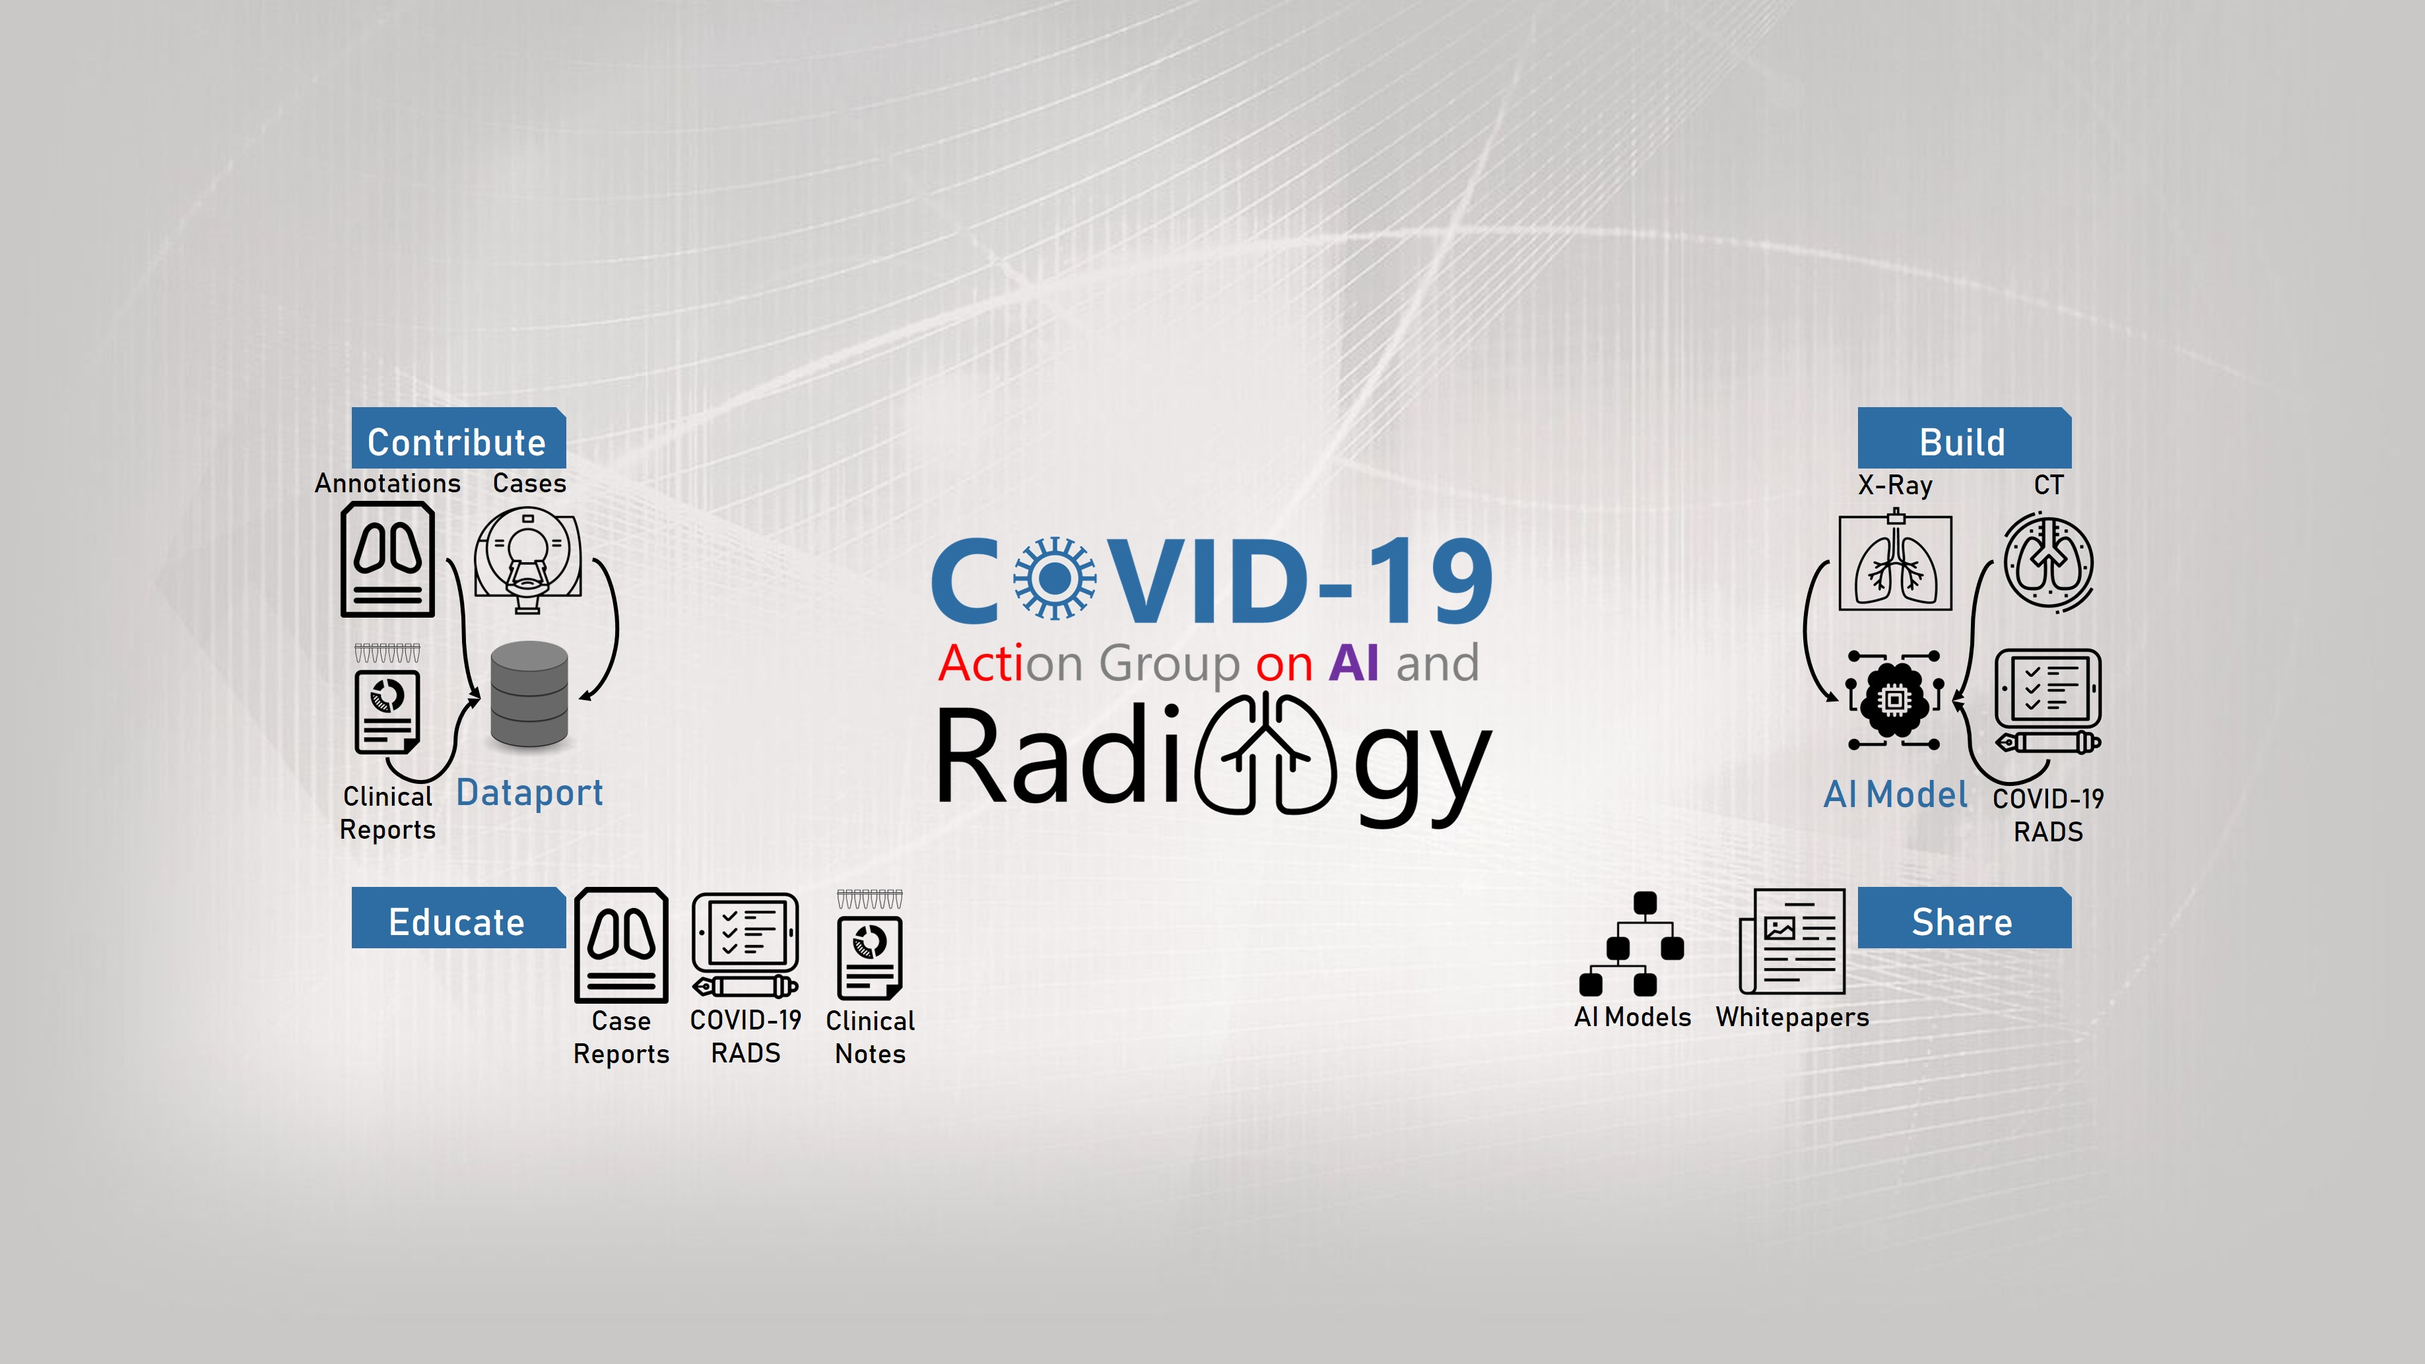
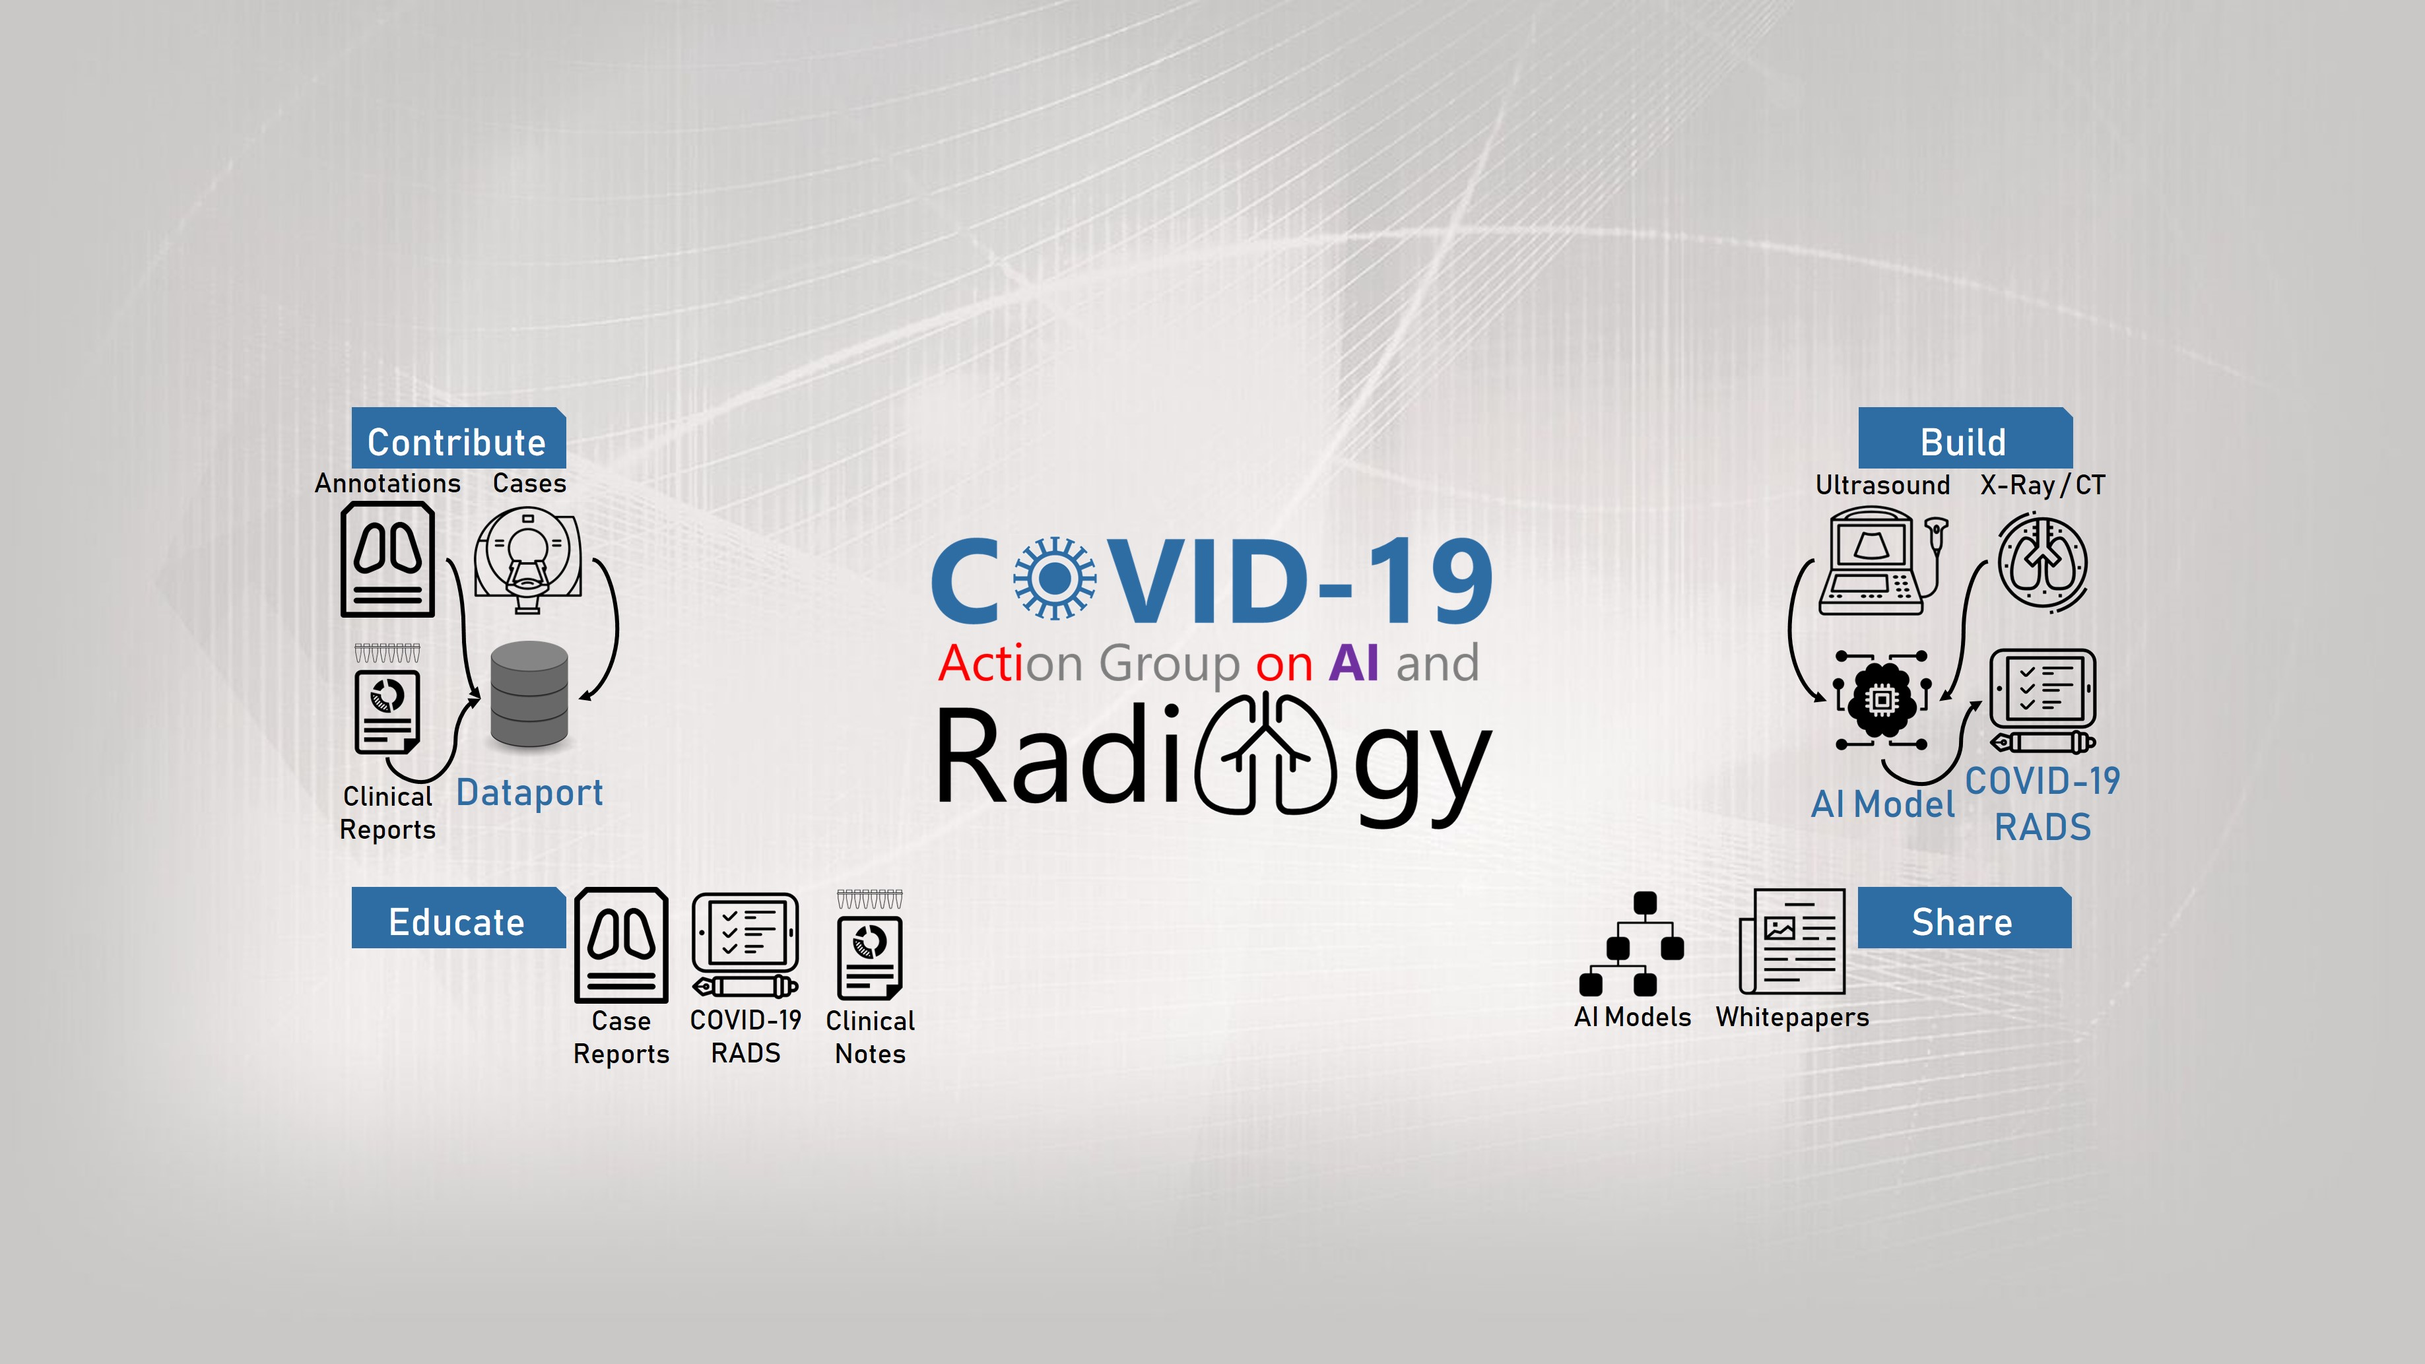
20/03/2020 update1

Changed region(s): [[0.7447, 0.3096, 0.8688, 0.6193]]

diff --git a/index.html b/index.html
@@ -89,7 +89,7 @@
 	  <div class="row">
 		<div class="col-lg-12 text-center">
 		  <h2 class="section-heading text-uppercase"> </h2>
-		  <p align="justify" class="section-subheading text-muted">Radiological investigations have a high sensitivity for diagnosing COVID-19. We are a pro bono public health research initiative building the COVID-19 RADS and your contribution with scans and observations can help us build AI assisted reporting and data standards. We also welcome AI model builders and data science researchers to engineer scalable rapid screening solutions. We welcome Physicians, Public Health researchers and practitioners, Policy Makers, AI model builders and data science researchers, Pro bono initiatives, organizations and individuals dedicated to use the datasets and engineer scalable rapid screening solutions.</p>
+		  <p align="justify" class="section-subheading text-muted">Radiological investigations have a high sensitivity for diagnosing COVID-19. We are a pro bono public health research initiative building the COVID-19 RADS and your contribution with scans and observations can help us build AI assisted reporting and data standards. We welcome Physicians, Public Health researchers and practitioners, Policy Makers, AI model builders and data science researchers, Pro bono initiatives, organizations and individuals dedicated to use the datasets and engineer scalable rapid screening solutions.</p>
 		  <p align="justify" class="section-subheading text-muted" > <a href="https://en.wikipedia.org/wiki/Coronavirus_disease_2019">Coronavirus disease 2019 (COVID-19) </a> is an infectious disease caused by severe acute respiratory syndrome coronavirus 2 (SARS-CoV-2). <a href="https://www.who.int/emergencies/diseases/novel-coronavirus-2019"> The World Health Organization (WHO)</a> declared the 2019–20 coronavirus outbreak a Public Health Emergency of International Concern (PHEIC) on 30 January 2020 and a pandemic on 11 March 2020.</p>
 
 		  <p align="justify" class="section-subheading text-muted" >COVID-19 RADS is a community intellect contribution driven Radiology Reporting and Data Standards for clinical management of COVID-19 symptomatic cases.</p>
@@ -109,7 +109,8 @@
 		</p>
 		<div class="collapse" id="Radiologist">
 		  <div class="card card-body">
-			You can contribute scans or annotate cases in our library of X-Ray and CT scans of suspicious COVID-19 cases, pneumonia and associated co-morbidities. Enroll and start contributing to build COVID-19 RADS.
+		  	<p>
+			You can contribute scans or annotate cases in our library of X-Ray, CT and Ultrasound scans of suspicious COVID-19 cases, pneumonia and associated co-morbidities.<a href="#contact" >Enroll </a> and start contributing to build COVID-19 RADS.</p>
 		  </div>
 		</div>
 		</div>
@@ -121,7 +122,8 @@
 		</p>
 		<div class="collapse" id="Physician">
 		  <div class="card card-body">
-			You can contribute COVID-19 scans to our dataport and contribute to building the patient handling and clinical management protocol for Radiological scanning. Any other views are also welcome. Enroll and start contributing to build COVID-19 RADS.	
+		  	<p>
+			You can contribute COVID-19 scans to our dataport and contribute to building the patient handling and clinical management protocol for Radiological scanning. Any other views are also welcome. <a href="#contact" >Enroll </a> and start contributing to build COVID-19 RADS.</p>	
 		  </div>
 		</div>
 		</div>
@@ -133,7 +135,8 @@
 		</p>
 		<div  class="collapse" id="Researcher">
 		  <div class="card card-body">
-			You can contribute to whitepapers and discussion groups on building COVID-19 RADS with inclusion of public health concerns in the overall management of suspicious subjects. Enroll and start contributing to build COVID-19 RADS.
+		  	<p>
+			You can contribute to whitepapers and discussion groups on building COVID-19 RADS with inclusion of public health concerns in the overall management of suspicious subjects. <a href="#contact" >Enroll </a> and start contributing to build COVID-19 RADS.</p>
 		  </div>
 		</div>
 	</div>
@@ -147,7 +150,8 @@
 		</p>
 		<div class="collapse" id="AI">
 		  <div class="card card-body">
-			You can contribute by analysing the data, relating Radiologists’ observations to diagnostic outcomes and algorithmically accelerate development of the COVID-19 RADS as well as build AI models to scale up Radiological rapid screen of symptomatic subjects.
+		  	<p>
+			You can contribute by analysing the data, relating Radiologists’ observations to diagnostic outcomes and algorithmically accelerate development of the COVID-19 RADS as well as build AI models to scale up Radiological rapid screen of symptomatic subjects.<a href="#contact" >Enroll </a></p>
 		  </div>
 		</div>
 		</div>
@@ -159,7 +163,8 @@
 		</p>
 		<div class="collapse" id="PolicyMaker">
 		  <div class="card card-body">
-			You can contribute to the COVID-19 management strategy by making use of our whitepapers and listing of related literatures. You can also contribute a policy document which shall be of relevance to COVID-19 RADS. Enroll and start contributing to build COVID-19 RADS.
+		  	<p>
+			You can contribute to the COVID-19 management strategy by making use of our whitepapers and listing of related literatures. You can also contribute a policy document which shall be of relevance to COVID-19 RADS. <a href="#contact" >Enroll </a> and start contributing to build COVID-19 RADS.</p>
 		  </div>
 		</div>
 		</div>
@@ -172,7 +177,8 @@
 		</p>
 		<div class="collapse" id="volunteer">
 		  <div class="card card-body">
-			You can contribute with your ideas to the action group beyond our usual comprehension listed here. Enroll and share your views to strengthen this action group and the cause.
+		  	<p>
+			You can contribute with your ideas to the action group beyond our usual comprehension listed here. <a href="#contact" >Enroll </a> and share your views to strengthen this action group and the cause.</p>
 		  </div>
 		</div>
 		</div>
@@ -187,7 +193,8 @@
 		</p>
 		<div class="collapse" id="Professionalassociation">
 		  <div class="card card-body">
-			As a professional association of Engineers, Physicians, Scientists, Teachers and all, you have the ability to collectively create the knowledge base for COVID-19 RADS. Enroll and tell us how you wish to join us and contribute to the cause.
+		  	<p>
+			As a professional association of Engineers, Physicians, Scientists, Teachers and all, you have the ability to collectively create the knowledge base for COVID-19 RADS. <a href="#contact" >Enroll </a> and tell us how you wish to join us and contribute to the cause.</p>
 		  </div>
 		</div>
 		</div>
@@ -199,7 +206,8 @@
 		</p>
 		<div class="collapse" id="Probonoinitiative">
 		  <div class="card card-body">
-			You can partner with us, exchanging anonymized data of relevance to building the COVID-19 RADS and list your initiative as a supporter to pool in our mutual strengths. Enroll and collaborate to co-build COVID-19 RADS.
+		  	<p>
+			You can partner with us, exchanging anonymized data of relevance to building the COVID-19 RADS and list your initiative as a supporter to pool in our mutual strengths. <a href="#contact" >Enroll </a> and collaborate to co-build COVID-19 RADS.</p>
 		  </div>
 		</div>
 		</div>
@@ -211,7 +219,8 @@
 		</p>
 		<div class="collapse" id="Industry">
 		  <div class="card card-body">
-			You can extend physical resources like storage, cloud, compute, radiological scanners, PCR reports and intellectual potential to help us build COVID-19 RADS and AI models for screening radiology. Enroll and tell us how you wish to join us.
+		  	<p>
+			You can extend physical resources like storage, cloud, compute, radiological scanners, PCR reports and intellectual potential to help us build COVID-19 RADS and AI models for screening radiology. <a href="#contact" >Enroll </a> and tell us how you wish to join us.</p>
 		  </div>
 		</div>
 		</div>
@@ -237,7 +246,7 @@
 			<i class="fas fa-copy fa-stack-1x fa-inverse"></i>
 		  </span></a>
 		  <h4 class="service-heading">Access COVID-19 RADS and Whitepapers</h4>
-		  <p align="justify" class="text-muted">Access the COVID-19 RADS sheets for reporting of X-ray and CT scans. Read more about how we are building the COVID-19 RADS with AI assistance, published case report and clinical literature, and your crowdsourced knowledge contribution.</p>
+		  <p align="justify" class="text-muted">Access the COVID-19 RADS sheets for reporting of X-Ray, CT and Ultrasound scans. Read more about how we are building the COVID-19 RADS with AI assistance, published case report and clinical literature, and your crowdsourced knowledge contribution.</p>
 		</div>
 
 		<div class="col-md-4">
@@ -271,7 +280,7 @@
 			<i class="fas fa-table fa-stack-1x fa-inverse"></i>
 		  </span>
 		  <h4 class="service-heading">Access Dataset to build AI Models</h4>
-		  <p align="justify" class="text-muted">As an AI model builder and data science researcher, you can gain access to X-ray and CT scans, annotations of observations in COVID-19 RADS, shared anonymously under <a rel="license" href="http://creativecommons.org/licenses/by-nc-sa/4.0/" target=_blank><img alt="Creative Commons License" style="border-width:0" src="https://i.creativecommons.org/l/by-nc-sa/4.0/80x15.png" /></a> for building image based screening models and to refine the COVID-19 RADS.</p>
+		  <p align="justify" class="text-muted">As an AI model builder and data science researcher, you can gain access to X-Ray, CT and Ultrasound scans, annotations of observations in COVID-19 RADS, shared anonymously under <a rel="license" href="http://creativecommons.org/licenses/by-nc-sa/4.0/" target=_blank><img alt="Creative Commons License" style="border-width:0" src="https://i.creativecommons.org/l/by-nc-sa/4.0/80x15.png" /></a> for building image based screening models and to refine the COVID-19 RADS.</p>
 		</div>
 
 		<div class="col-md-4">
@@ -309,7 +318,7 @@
 		<div class="col-lg-12 text-center">
 		  <h2 class="section-heading text-uppercase"> INITIATORS AND SUPPORTERS</h2>
 		</div>
-		<div class="col-md-3 col-sm-6">
+		<div class=" col-lg-12 text-center">
 		  <a href="https://iitkliv.github.io/">
 			<img class="img-fluid d-block mx-auto" src="img/logos/iitklivlogo.png" alt="">
 		  </a>
@@ -429,7 +438,7 @@
 	  <div class="row">
 		<div class="col-lg-12 text-center">
 		  <h2 class="section-heading text-uppercase"> Ethics and Data Protection</h2>
-		  <p class="text-muted">Contributor identity is anonymized and shall not be shared with anyone unless waived off by the contributor. De-anonymized data shall be shared only when required by Law of India. All other information as indicated in the license file are shared under <a rel="license" href="http://creativecommons.org/licenses/by-nc-sa/4.0/ " target=_blank ><img alt="Creative Commons License" style="border-width:0" src="https://i.creativecommons.org/l/by-nc-sa/4.0/80x15.png" /></a> or <a href="https://www.apache.org/licenses/LICENSE-2.0" target=_blank>Apache-2.0</a>.</p>
+		  <p class="text-muted">Contributor identity is anonymized and shall not be shared with anyone unless waived off by the contributor. All other information as indicated in the license file are shared under <a rel="license" href="http://creativecommons.org/licenses/by-nc-sa/4.0/ " target=_blank ><img alt="Creative Commons License" style="border-width:0" src="https://i.creativecommons.org/l/by-nc-sa/4.0/80x15.png" /></a> or <a href="https://www.apache.org/licenses/LICENSE-2.0" target=_blank>Apache-2.0</a>. Read detailed <a href="disclaimer.html"> Disclaimer</a> </p>
 		</div>
 	  </div>
 	</div>
@@ -464,7 +473,7 @@
 		<div class="col-sm-3">
 		  <div class="team-member">
 			<img class="mx-auto rounded-circle" src="img/team/dr-tandra.jpg" alt="">
-			<p>Tandra Sarkar, MD </p>
+			<p>Tandra Sarkar, Radiologist </p>
 			<!-- <p class="text-muted">Lead Designer</p> -->
 			<ul class="list-inline social-buttons">
 			  <li class="list-inline-item">
@@ -526,8 +535,8 @@
 			<p>Manoj Sharma</p>
 			<ul class="list-inline social-buttons">
 			  <li class="list-inline-item">
-				<a href="https://scholar.google.co.in/citations?user=PEpN_44AAAAJ&hl=en">
-				  <i class="fab fa-google"></i>
+				<a href="https://www.linkedin.com/in/manojsharma-iitkgp">
+				  <i class="fab fa-linkedin-in"></i>
 				</a>
 			  </li>
 			</ul>
@@ -643,7 +652,7 @@
 		</div>
 		
 		<div class="col-md-4">
-		  <span class="copyright">Copyright &copy; 2020,KLIV. All rights reserved</span>
+		  <span class="copyright">Copyright &copy; 2020, <a href="https://iitkliv.github.io/" target=_blank>KLIV</a>. All rights reserved</span>
 		</div>
 		<div class="col-md-4">
 		  <ul class="list-inline social-buttons">
@@ -662,11 +671,6 @@
 				<i class="fab fa-github"></i>
 			  </a>
 			</li>
-			<li class="list-inline-item">
-			  <a href="https://iitkliv.github.io/">
-				<i class="fas fa-laptop"></i>
-			  </a>
-			</li>
 		  </ul>
 		</div>
 		<div class="col-md-4">
@@ -675,7 +679,8 @@
 			  <a href="disclaimer.html">Disclaimer</a>
 			</li>
             <li class="list-inline-item">
-			  <a href="#">covid19action.radiology@gmail.com</a>
+            	<span class="copyright"> Email us at: covid19action.radiology@gmail.com</span>
+			  <!-- <a href="#">covid19action.radiology@gmail.com</a> -->
 			</li>
 		  </ul>
 		</div>

diff --git a/disclaimer.html b/disclaimer.html
@@ -129,11 +129,11 @@ Phone: +91 3222 283 082
         <div class="col-md-4">
           <ul class="list-inline quicklinks">
             <li class="list-inline-item">
-              <a href="#">Disclaimer</a>
+              <a href="disclaimer.html">Disclaimer</a>
             </li>
- <!--            <li class="list-inline-item">
-              <a href="#">Terms of Use</a>
-            </li> -->
+            <li class="list-inline-item">
+              <span class="copyright"> Email us at: covid19action.radiology@gmail.com</span>   
+            </li>
           </ul>
         </div>
       </div>

diff --git a/RADS.html b/RADS.html
@@ -97,11 +97,11 @@
         <div class="col-md-4">
           <ul class="list-inline quicklinks">
             <li class="list-inline-item">
-              <a href="#">Disclaimer</a>
+              <a href="disclaimer.html">Disclaimer</a>
             </li>
- <!--            <li class="list-inline-item">
-              <a href="#">Terms of Use</a>
-            </li> -->
+            <li class="list-inline-item">
+              <span class="copyright"> Email us at: covid19action.radiology@gmail.com</span>
+            </li>
           </ul>
         </div>
       </div>

diff --git a/css/agency.css b/css/agency.css
@@ -14,11 +14,12 @@ p {
 }
 
 a {
-  color: #fed136;
+  color: rgb(46,108,164);
 }
 
 a:hover {
   color: #fec503;
+  text-decoration: none;
 }
 
 .text-primary {
